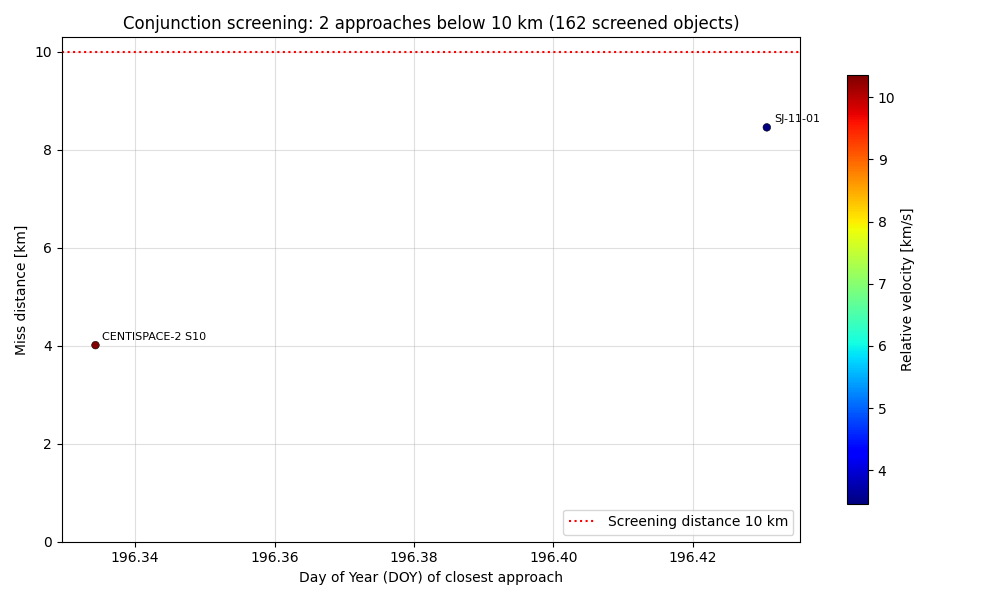
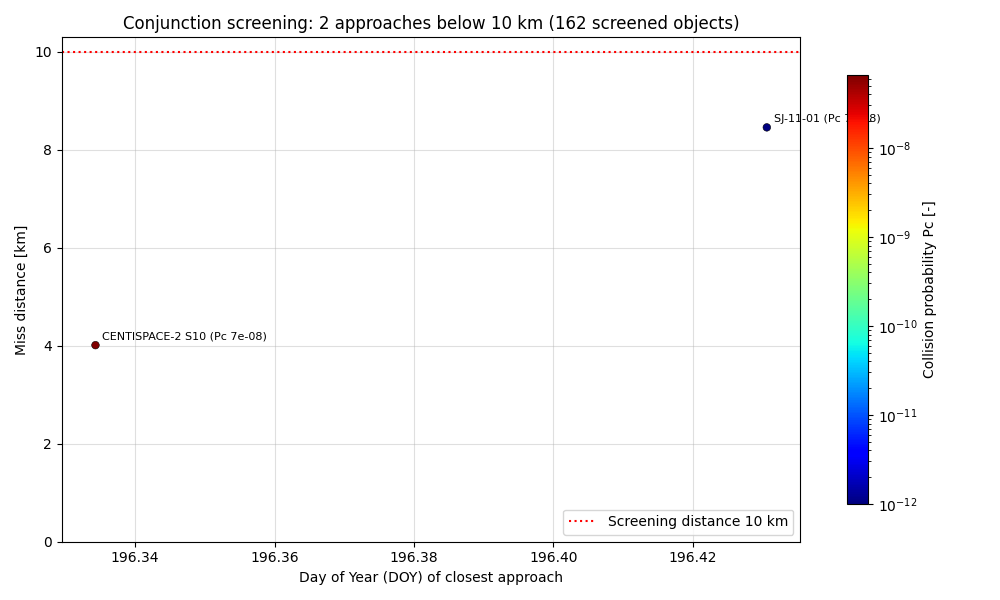
orb_collision_check: first-order collision probability per conjunction event
The configured combined position covariance (1-sigma radial/along-track/
cross-track in the mission orbit frame, TLE-class defaults 1000/3000/1000 m)
is projected onto the encounter plane perpendicular to the relative
velocity, and the small hard-body approximation Pc = R^2/(2 sqrt(det C)) *
exp(-d C^-1 d / 2) is evaluated with the combined <HardBodyRadius> (default
20 m). Events are ranked and colour-coded by Pc (log scale), the events CSV
gains a pc column, and the log states the covariance assumptions. TLE
covariances are assumptions - documented as indicative rankings, not a
CDM-grade assessment.

diff --git a/src/analysis_orb.py b/src/analysis_orb.py
@@ -1181,9 +1181,14 @@ class AnalysisOrbCollisionCheck(_AnalysisDeltaVBase):
     motion refined miss distance and time of closest approach are computed;
     approaches below <ScreeningDistance> are reported as conjunction events.
 
-    This is a screening tool, not a collision-probability computation: TLE
-    accuracy is km-level, so treat the reported miss distances as a sieve
-    for which objects deserve a proper (CDM-based) conjunction assessment.
+    Every event also gets a first-order collision probability: the
+    configured combined position covariance (1-sigma radial/along-track/
+    cross-track in the mission orbit frame, TLE-class defaults) is projected
+    onto the encounter plane perpendicular to the relative velocity, and the
+    small-radius approximation Pc = R_hb^2/(2*sqrt(det C)) * exp(-d^T C^-1
+    d / 2) is evaluated with the combined <HardBodyRadius>. TLE covariances
+    are assumptions, so treat the Pc values as indicative rankings - a
+    proper (CDM-based) conjunction assessment remains the real screen.
     The mission trajectory uses the satellite's own TLE when available; for
     Keplerian(/HPOP) missions an SGP4-equivalent of the orbit elements is
     screened instead."""
@@ -1194,6 +1199,10 @@ class AnalysisOrbCollisionCheck(_AnalysisDeltaVBase):
         self.group_file = None  # Local TLE catalog file instead of downloading
         self.screening_distance = 10e3  # [m] conjunction report threshold
         self.screening_step = 30.0  # [s] screening grid step
+        self.hard_body_radius = 20.0  # [m] combined hard-body radius
+        self.sigma_radial = 1000.0  # [m] combined 1-sigma covariance, radial
+        self.sigma_along = 3000.0  # [m] along-track (dominant for TLEs)
+        self.sigma_cross = 1000.0  # [m] cross-track
         self.enabled = True
         self.names = []  # Catalog object names (sieve survivors)
         self.norad_ids = None
@@ -1210,8 +1219,53 @@ class AnalysisOrbCollisionCheck(_AnalysisDeltaVBase):
             self.screening_distance = float(node.find('ScreeningDistance').text)
         if node.find('ScreeningStep') is not None:
             self.screening_step = float(node.find('ScreeningStep').text)
+        if node.find('HardBodyRadius') is not None:
+            self.hard_body_radius = float(node.find('HardBodyRadius').text)
+        if node.find('CovarianceRadial') is not None:
+            self.sigma_radial = float(node.find('CovarianceRadial').text)
+        if node.find('CovarianceAlongTrack') is not None:
+            self.sigma_along = float(node.find('CovarianceAlongTrack').text)
+        if node.find('CovarianceCrossTrack') is not None:
+            self.sigma_cross = float(node.find('CovarianceCrossTrack').text)
         if not self.groups and self.group_file is None:
             self.groups = ['active']
+
+    def _collision_probability(self, dr_km, dv_kms, r_mission_km, v_mission_kms):
+        """First-order collision probability of one encounter: the combined
+        covariance (configured 1-sigma values in the mission radial/along-
+        track/cross-track frame) is projected onto the 2D encounter plane
+        perpendicular to the relative velocity, and the small hard-body
+        approximation of the 2D Gaussian integral is evaluated at the miss
+        vector (Foster-style; valid for hard-body radius << sigma)."""
+        v_hat = dv_kms / np.linalg.norm(dv_kms)
+        miss_vec = dr_km - np.dot(dr_km, v_hat) * v_hat
+        miss = np.linalg.norm(miss_vec)
+        if miss > 1e-9:
+            e1 = miss_vec / miss
+        else:  # Head-on within numerics: any direction in the encounter plane
+            e1 = np.cross(v_hat, [0.0, 0.0, 1.0])
+            if np.linalg.norm(e1) < 1e-9:
+                e1 = np.cross(v_hat, [0.0, 1.0, 0.0])
+            e1 /= np.linalg.norm(e1)
+        e2 = np.cross(v_hat, e1)
+        # Combined covariance in the tool frame from the mission RTN axes
+        r_hat = r_mission_km / np.linalg.norm(r_mission_km)
+        w_hat = np.cross(r_mission_km, v_mission_kms)
+        w_hat /= np.linalg.norm(w_hat)
+        s_hat = np.cross(w_hat, r_hat)
+        cov = ((self.sigma_radial / 1e3) ** 2 * np.outer(r_hat, r_hat) +
+               (self.sigma_along / 1e3) ** 2 * np.outer(s_hat, s_hat) +
+               (self.sigma_cross / 1e3) ** 2 * np.outer(w_hat, w_hat))
+        basis = np.vstack([e1, e2])
+        cov_2d = basis @ cov @ basis.T
+        det = float(np.linalg.det(cov_2d))
+        if det <= 0.0:
+            return 0.0
+        inv_00 = float(np.linalg.inv(cov_2d)[0, 0])
+        radius_km = self.hard_body_radius / 1e3
+        pc = (radius_km ** 2 / (2.0 * np.sqrt(det))) * \
+            np.exp(-0.5 * miss ** 2 * inv_00)
+        return float(min(pc, 1.0))
 
     def _catalog_files(self):
         """Local catalog file(s): the configured file, or the downloaded and
@@ -1327,7 +1381,7 @@ class AnalysisOrbCollisionCheck(_AnalysisDeltaVBase):
         threshold_km = self.screening_distance / 1000.0
         flagged = valid & near_tca & (d_min_km < threshold_km)
         doy0 = self.times_f_doy[0] if self.times_f_doy else 0.0
-        events = []  # [doy_tca, norad, miss_km, vrel_kms, alt_km, name idx]
+        events = []  # [doy_tca, norad, miss_km, vrel_kms, alt_km, pc, name idx]
         for i in np.flatnonzero(flagged.any(axis=1)):
             samples = np.flatnonzero(flagged[i])
             # Consecutive flagged samples of the same object are one event
@@ -1335,18 +1389,23 @@ class AnalysisOrbCollisionCheck(_AnalysisDeltaVBase):
                 k = run[np.argmin(d_min_km[i, run])]
                 tca_mjd = times_mjd[k] + tca_offset_s[i, k] / 86400.0
                 alt_km = np.linalg.norm(r_c[i, k]) - R_EARTH / 1000.0
+                pc = self._collision_probability(dr[i, k], dv[i, k],
+                                                 r_m[0, k], v_m[0, k])
                 events.append([doy0 + (tca_mjd - sm.start_time),
                                self.norad_ids[i], d_min_km[i, k],
-                               vrel[i, k], alt_km, i])
-        events.sort(key=lambda event: event[2])
-        for doy, norad, miss, vr, alt, i in events[:20]:
+                               vrel[i, k], alt_km, pc, i])
+        events.sort(key=lambda event: event[5], reverse=True)  # Highest Pc first
+        for doy, norad, miss, vr, alt, pc, i in events[:20]:
             ls.logger.info(f'{self.type}: {self.names[int(i)]} (NORAD {int(norad)}): '
-                           f'miss {miss:.2f} km at DOY {doy:.4f}, relative '
-                           f'velocity {vr:.1f} km/s, altitude {alt:.0f} km')
+                           f'miss {miss:.2f} km, Pc {pc:.1e} at DOY {doy:.4f}, '
+                           f'relative velocity {vr:.1f} km/s, altitude {alt:.0f} km')
         ls.logger.info(f'{self.type}: {len(events)} conjunction(s) below '
                        f'{threshold_km:.1f} km over '
                        f'{(sm.stop_time - sm.start_time):.1f} day(s), '
-                       f'{len(self.names)} screened objects')
+                       f'{len(self.names)} screened objects (Pc with '
+                       f'{self.hard_body_radius:.0f} m hard-body radius, 1-sigma '
+                       f'{self.sigma_radial:.0f}/{self.sigma_along:.0f}/'
+                       f'{self.sigma_cross:.0f} m R/S/W covariance)')
 
         # Per-candidate closest approach over the window (near-TCA samples)
         cand_min = np.where(near_tca & valid, d_min_km, np.inf).min(axis=1)
@@ -1355,26 +1414,30 @@ class AnalysisOrbCollisionCheck(_AnalysisDeltaVBase):
         self.write_csv(sm, ['norad_id', 'min_miss_km'],
                        np.column_stack([self.norad_ids, cand_min]),
                        suffix='candidates', text_columns=[('name', self.names)])
-        self.write_csv(sm, ['doy_tca', 'norad_id', 'miss_km', 'vrel_kms', 'alt_km'],
-                       [event[:5] for event in events],
-                       text_columns=[('name', [self.names[int(event[5])]
+        self.write_csv(sm, ['doy_tca', 'norad_id', 'miss_km', 'vrel_kms', 'alt_km',
+                            'pc'],
+                       [event[:6] for event in events],
+                       text_columns=[('name', [self.names[int(event[6])]
                                                for event in events])])
 
         if not events:
             ls.logger.warning(f'{self.type}: no conjunction below the threshold; '
                               f'no plot produced.')
             return
-        rows = np.array([event[:5] for event in events])
+        rows = np.array([event[:6] for event in events])
         fig, ax = plt.subplots(figsize=(10, 6))
-        ax.scatter(rows[:, 0], rows[:, 2], c=rows[:, 3], cmap=plt.cm.jet, s=30,
+        from matplotlib.colors import LogNorm
+        pc_floor = np.maximum(rows[:, 5], 1e-12)  # Log colour scale needs > 0
+        ax.scatter(rows[:, 0], rows[:, 2], c=pc_floor, cmap=plt.cm.jet, s=30,
+                   norm=LogNorm(vmin=pc_floor.min(), vmax=max(pc_floor.max(), 1e-11)),
                    edgecolors='black', linewidths=0.4, zorder=3)
         cb = plt.colorbar(ax.collections[0], ax=ax, shrink=0.85)
-        cb.set_label('Relative velocity [km/s]')
+        cb.set_label('Collision probability Pc [-]')
         ax.axhline(threshold_km, color='red', linestyle=':',
                    label=f'Screening distance {threshold_km:.0f} km')
-        for doy, norad, miss, vr, alt, i in events[:5]:
-            ax.annotate(self.names[int(i)], (doy, miss), xytext=(5, 4),
-                        textcoords='offset points', fontsize=8)
+        for doy, norad, miss, vr, alt, pc, i in events[:5]:
+            ax.annotate(f'{self.names[int(i)]} (Pc {pc:.0e})', (doy, miss),
+                        xytext=(5, 4), textcoords='offset points', fontsize=8)
         ax.set_xlabel('Day of Year (DOY) of closest approach')
         ax.set_ylabel('Miss distance [km]')
         ax.set_ylim(bottom=0)

diff --git a/src/config_checks.py b/src/config_checks.py
@@ -90,7 +90,8 @@ ANALYSIS_PARAMS = {
                              'AvoidanceAltitude'},
     'orb_collision_check': {'ConstellationID', 'SatelliteID', 'CelestrakGroup',
                             'CelestrakGroupFile', 'ScreeningDistance',
-                            'ScreeningStep'},
+                            'ScreeningStep', 'HardBodyRadius', 'CovarianceRadial',
+                            'CovarianceAlongTrack', 'CovarianceCrossTrack'},
     'orb_collision_alt_check': {'ConstellationID', 'SatelliteID', 'CelestrakGroup',
                                 'CelestrakGroupFile', 'AltitudeMargin'},
     'sat_thermal': {'ConstellationID', 'SatelliteID', 'SurfaceArea', 'CrossSectionSun',
@@ -225,7 +226,8 @@ FLOAT_TAGS = {'EpochMJD', 'Altitude', 'SemiMajorAxis', 'Eccentricity', 'Inclinat
               'AccommodationCoefficient', 'WallTemperature', 'ExosphericTemperature',
               'AttitudeStep', 'MaxFacets', 'IntermediatePerigee', 'FinalPerigee',
               'AvoidanceAltitude', 'ScreeningDistance', 'ScreeningStep',
-              'AltitudeMargin'}
+              'AltitudeMargin', 'HardBodyRadius', 'CovarianceRadial',
+              'CovarianceAlongTrack', 'CovarianceCrossTrack'}
 BOOL_TAGS = {'IncludeStation2SpaceLinks', 'IncludeUser2SpaceLinks',
              'IncludeSpace2SpaceLinks', 'OrbitsFromPreviousRun', 'IncludeRain',
              'IncludeGas', 'IncludeScintillation', 'IncludeClouds', 'Revisit',

diff --git a/readme.md b/readme.md
@@ -1723,6 +1723,14 @@ classic three-stage smart sieve:
    events (log table, plot and CSV; a per-candidate closest-approach CSV is also
    written).
 
+Every event also gets a first-order collision probability: the configured combined
+position covariance (1-sigma radial/along-track/cross-track in the mission orbit
+frame, TLE-class defaults 1000/3000/1000 m) is projected onto the encounter plane
+perpendicular to the relative velocity, and the small hard-body approximation
+Pc = R_hb²/(2·√det C)·exp(−d·C⁻¹·d/2) is evaluated with the combined
+`<HardBodyRadius>` (default 20 m). Events are ranked and colour-coded by Pc. TLE
+covariances are assumptions, so treat the probabilities as indicative rankings.
+
 A full `active`-catalog screen of one day takes of the order of 10 seconds
 including the download. **This is a screening tool, not a collision-probability
 computation**: TLE accuracy is km-level, so treat the reported miss distances as a
@@ -1747,6 +1755,10 @@ Optional in the analysis part are:
     <CelestrakGroupFile>../input/my_catalog.txt</CelestrakGroupFile>
     <ScreeningDistance>10000</ScreeningDistance>
     <ScreeningStep>30</ScreeningStep>
+    <HardBodyRadius>20</HardBodyRadius>
+    <CovarianceRadial>1000</CovarianceRadial>
+    <CovarianceAlongTrack>3000</CovarianceAlongTrack>
+    <CovarianceCrossTrack>1000</CovarianceCrossTrack>
 ```
 - ConstellationID/SatelliteID: select the mission satellite (default: the first).
 - CelestrakGroup: CelesTrak group name, repeatable to combine groups (default
@@ -1756,6 +1768,9 @@ Optional in the analysis part are:
 - ScreeningDistance: conjunction report threshold in m (default 10 km).
 - ScreeningStep: screening grid step in s (default 30), independent of the
   simulation TimeStep.
+- HardBodyRadius: combined hard-body radius of the two objects in m (default 20).
+- CovarianceRadial/AlongTrack/CrossTrack: combined 1-sigma position covariance in
+  m for the Pc evaluation (defaults 1000/3000/1000).
 
 <img src="/docs/orb_collision_check.png" alt="orb_collision_check"/>
 

diff --git a/tests/README.md b/tests/README.md
@@ -120,7 +120,7 @@ test configs from scratch.
 | orb_deltav_injection | At 700 km: Ariane 62 (±5 km/±0.04 deg) 7.9 m/s, Vega-C (±15 km/±0.15 deg) 27.6 m/s, Falcon 9 (±15 km/±0.10 deg) 21.0 m/s — inclination correction dominates, matching the classic budget split |
 | orb_deltav_reentry | From 700 km circular: 122.3 m/s to a 250 km perigee, 58.6 m/s further to 50 km, total 180.9 m/s — matches the vis-viva hand calculation |
 | orb_deltav_collision | 10 km apogee raise over the conjunction: 2.65 m/s up + 2.65 m/s back = 5.29 m/s (v·dh/(4a) to first order), linear cost curve |
-| orb_collision_check | 162 of 265 objects pass the apogee/perigee sieve around 695-697 km; 2 conjunctions below 10 km in one day (4.0 km at 10.4 km/s, 8.5 km at 3.5 km/s) — identical events found when screening the full 16071-object live catalog (8 s incl. download) |
+| orb_collision_check | 162 of 265 objects pass the apogee/perigee sieve around 695-697 km; 2 conjunctions below 10 km in one day (4.0 km at 10.4 km/s -> Pc 6.6e-8, 8.5 km at 3.5 km/s -> Pc 6.6e-18 with the TLE-class 1/3/1 km covariance and 20 m hard body) — identical events found when screening the full 16071-object live catalog (8 s incl. download) |
 | orb_collision_alt_check | 139 neighbours within ±10 km of the 695-697 km band; the closest are the constellation companions SENTINEL-1C/-1D (identical 695x697 km, 98.2 deg) plus crossing ORBCOMM traffic at 47 deg — SSO cluster clearly visible at 98 deg in the inclination plot |
 | sat_thermal | Per-orbit temperature saw-tooth −63..−21 degC between the eclipse cooling and sunlit heating, converging to a limit cycle from the first-epoch equilibrium; hot/cold case equilibria −11/−63 degC match the (Q/εσA)^0.25 hand calculation |
 | sat_aocs | Textbook torque hierarchy at 700 km: magnetic ~4.6e-5 N m dominant (two peaks per orbit at the magnetic poles), SRP 3.7e-6 dropping to zero in eclipse, gravity gradient 2.4e-6 constant, aero 1.2e-6; momentum ramp 0.24 N m s/orbit |